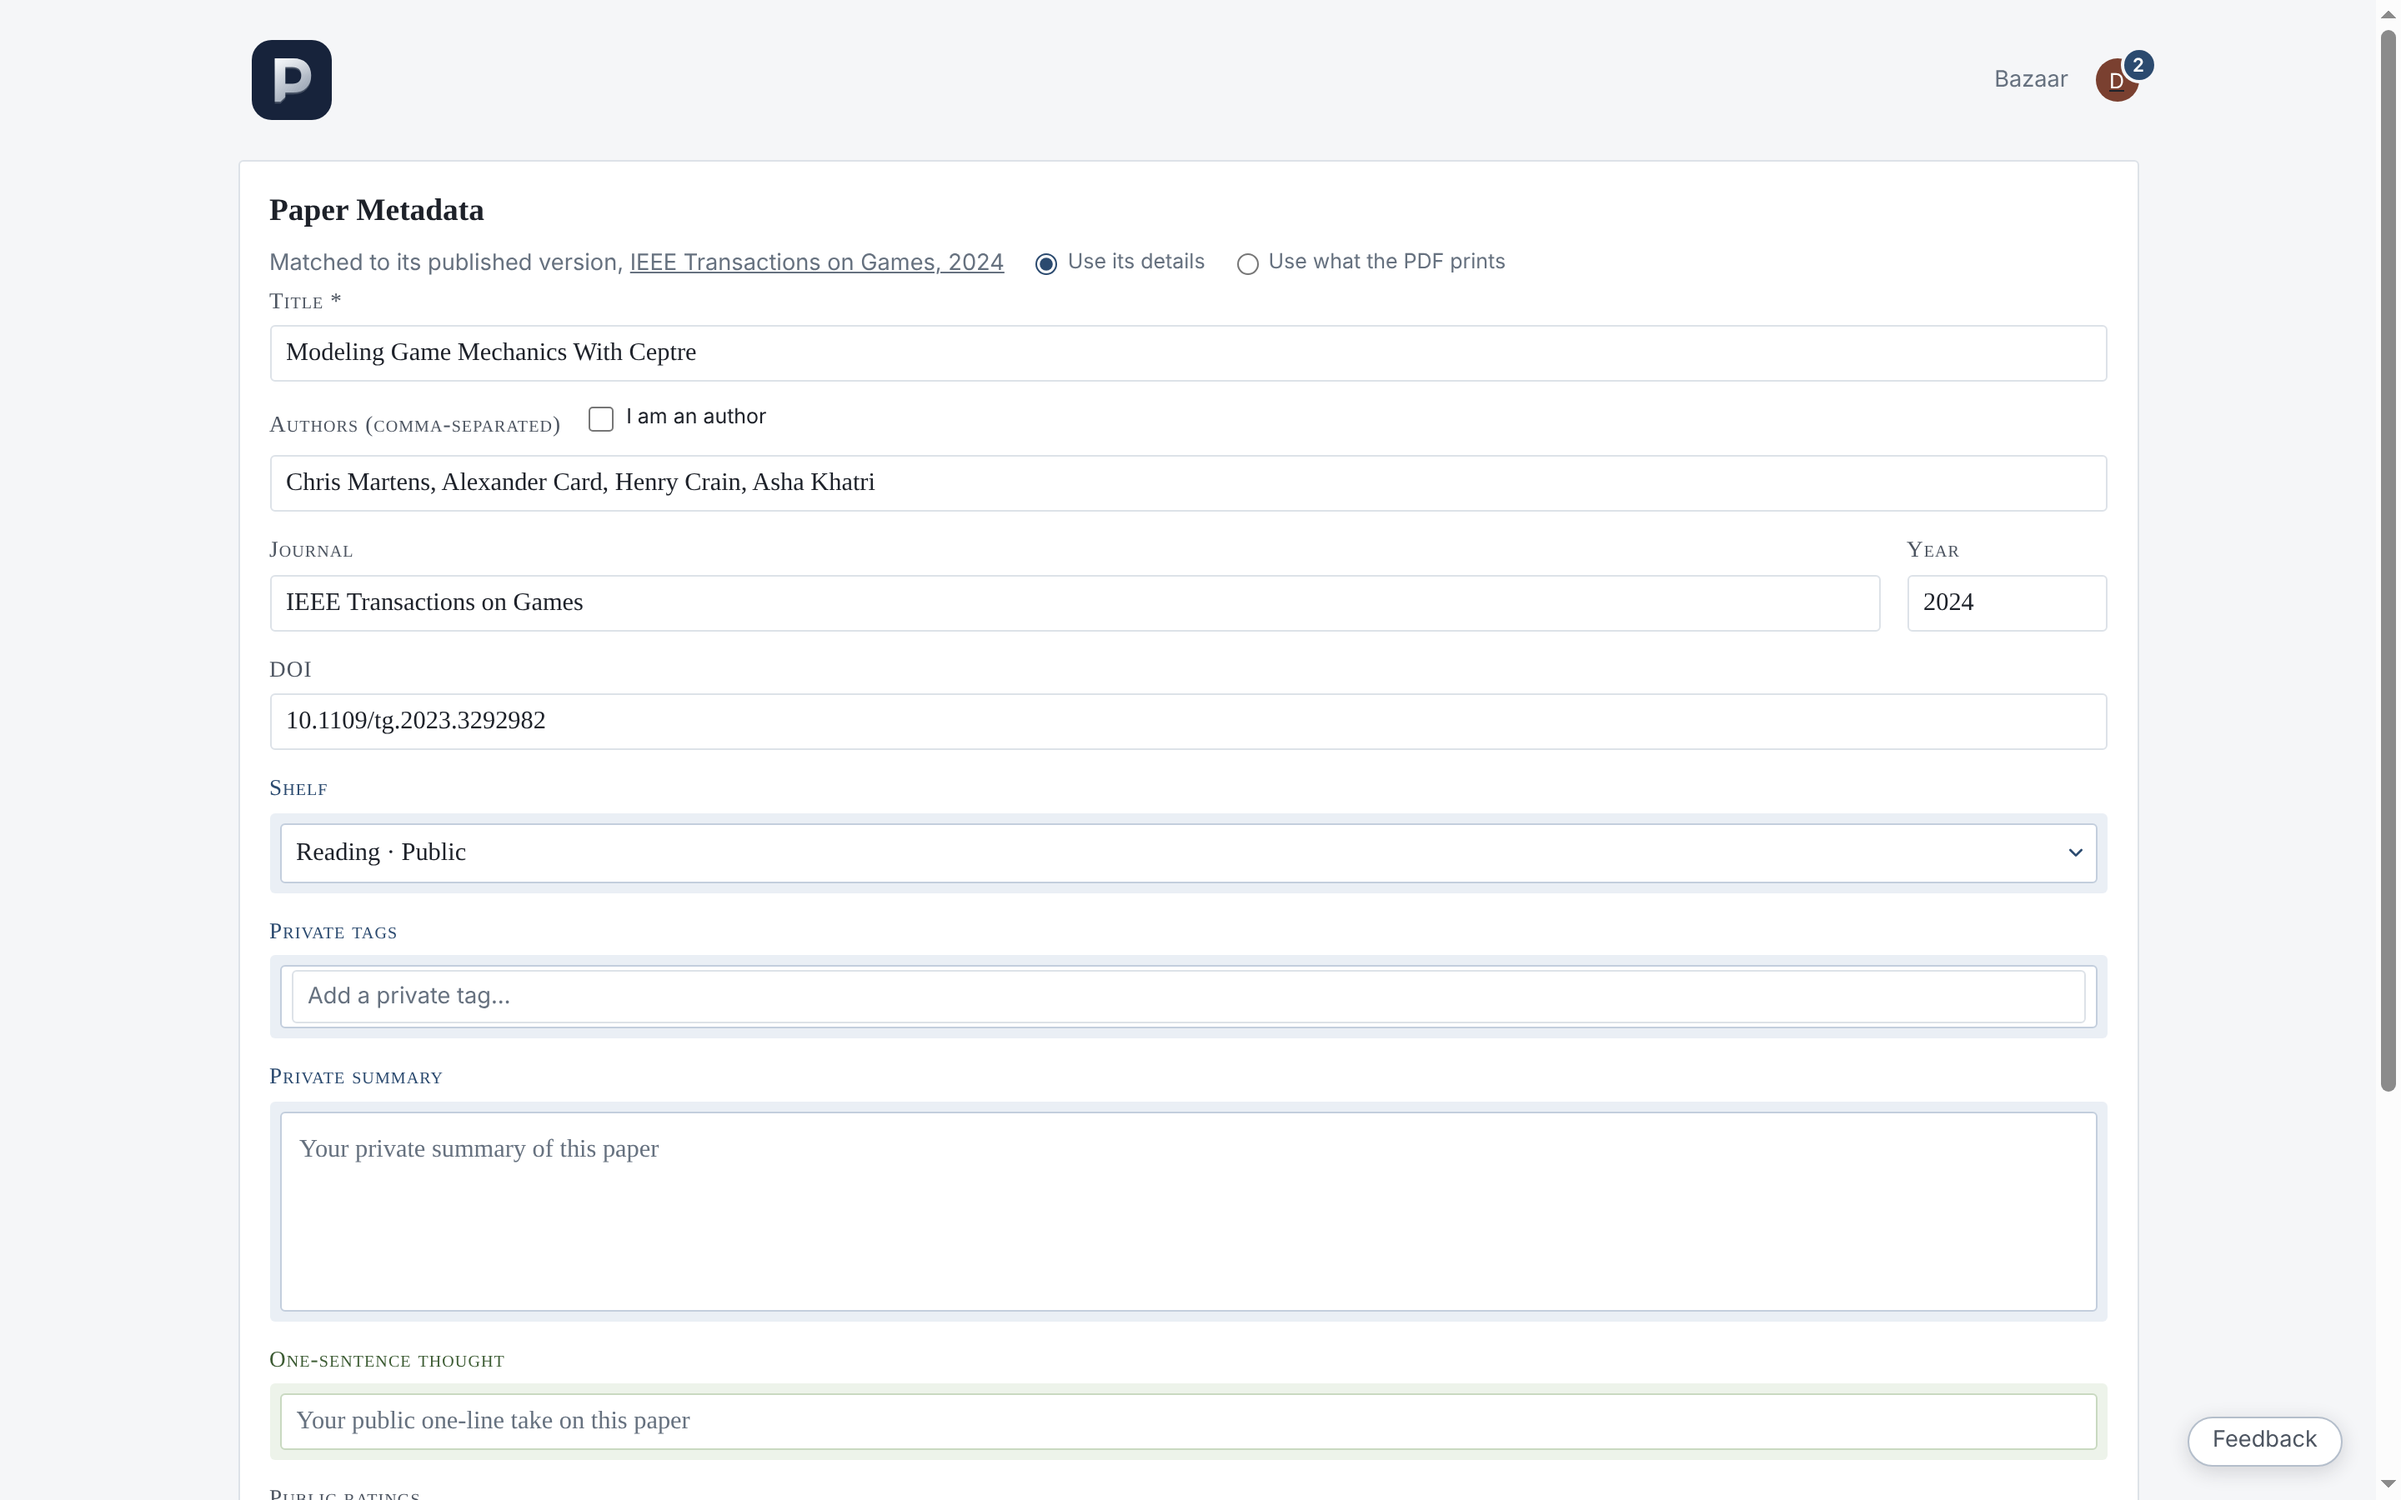
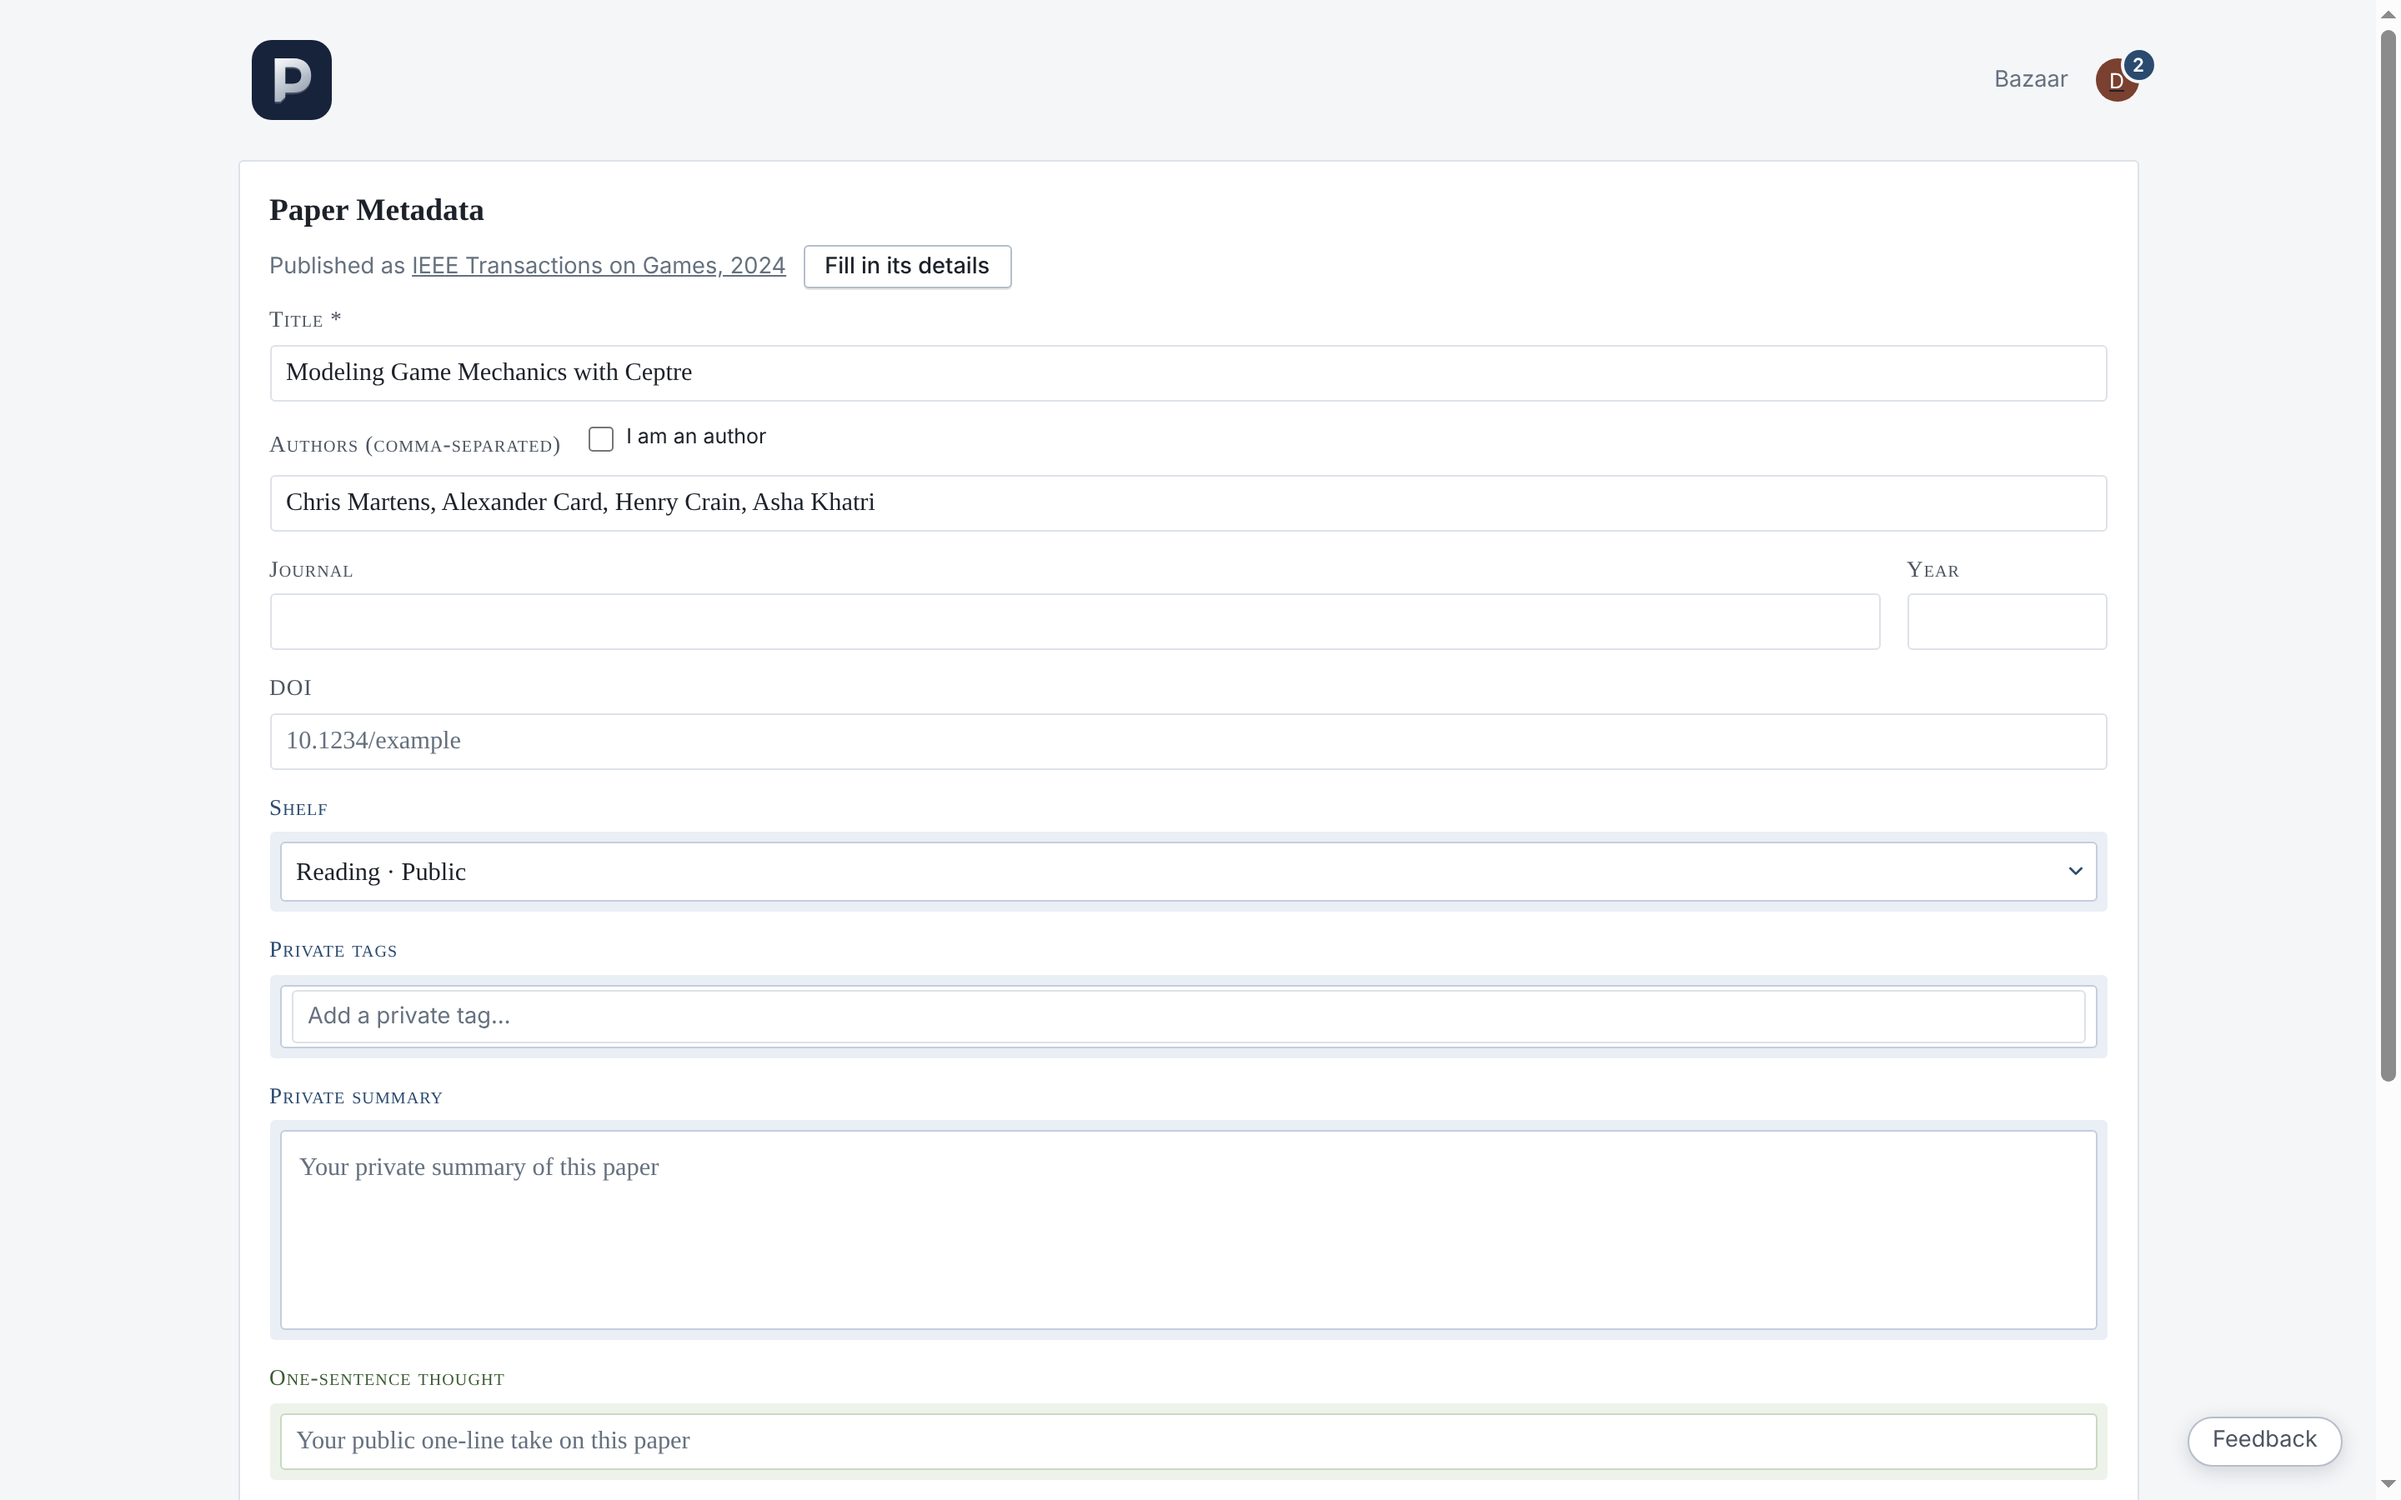
Upload form: open on what the PDF prints, with a button to fill in the published paper's details
Claude-Session: https://claude.ai/code/session_01PQZzMTf8exfQdi4pgdifC7

diff --git a/frontend/src/components/PaperUpload.jsx b/frontend/src/components/PaperUpload.jsx
@@ -44,11 +44,11 @@ export default function PaperUpload({
   // one, and whether the save takes it (the default) or keeps this PDF.
   const [known, setKnown] = useState(null);
   const [useKnown, setUseKnown] = useState(true);
-  // The reading, when it matched the PDF to its published version: the
-  // form holds the published details or, at the user's word, what the PDF
-  // prints (`as_printed`).
+  // The reading, when it matched the PDF to its published version. The
+  // form opens on what the PDF prints (`as_printed`); a button fills it
+  // with the published paper's details, and another takes them back.
   const [published, setPublished] = useState(null);
-  const [usePublished, setUsePublished] = useState(true);
+  const [usePublished, setUsePublished] = useState(false);
   const [formData, setFormData] = useState({});
   const [availableTags, setAvailableTags] = useState([]);
   const [shelves, setShelves] = useState([]);
@@ -145,7 +145,7 @@ export default function PaperUpload({
     setKnown(null);
     setUseKnown(true);
     setPublished(null);
-    setUsePublished(true);
+    setUsePublished(false);
     setIsLoading(true);
     setUploadProgress(null);
     setError(null);
@@ -194,9 +194,10 @@ export default function PaperUpload({
         return;
       }
       const settle = (read) => {
-        if (read) setFormData((current) => fillUnedited(current, editedFields.current, read));
+        const matched = publishedVersion(read) ? read : null;
+        if (read) setFormData((current) => fillUnedited(current, editedFields.current, matched ? matched.as_printed : read));
         setKnown(read?.existing?.sha256 ? read.existing : null);
-        setPublished(publishedVersion(read) ? read : null);
+        setPublished(matched);
         setReading(read ? null : 'unread');
       };
       // The indexes knew the paper while it went up: the form opens filled.
@@ -349,19 +350,16 @@ export default function PaperUpload({
           </div>
         )}
         {published && (
-          <div className="metadata-reading known-version published-version" role="status">
+          <div className="metadata-reading published-version" role="status">
             <span>
-              Matched to its published version,{' '}
+              {usePublished ? 'Filled in from the published paper,' : 'Published as'}{' '}
               <a href={publishedVersion(published).href} target="_blank" rel="noreferrer">{publishedVersion(published).where}</a>
             </span>
-            <label className="checkbox-row inline">
-              <input type="radio" name="published_version" value="published" checked={usePublished} onChange={() => choosePublished(true)} />
-              <span>Use its details</span>
-            </label>
-            <label className="checkbox-row inline">
-              <input type="radio" name="published_version" value="printed" checked={!usePublished} onChange={() => choosePublished(false)} />
-              <span>Use what the PDF prints</span>
-            </label>
+            {usePublished ? (
+              <button type="button" className="link-button" onClick={() => choosePublished(false)}>Undo</button>
+            ) : (
+              <button type="button" className="published-fill" onClick={() => choosePublished(true)}>Fill in its details</button>
+            )}
           </div>
         )}
         {error && <div className="error" role="alert">{error}</div>}

diff --git a/frontend/src/uploadReview.js b/frontend/src/uploadReview.js
@@ -44,9 +44,10 @@ export function knownVersionLine(read) {
 
 // A paper that prints no identifier of its own (an author's copy) may be
 // matched to its published version by its title and authors; the reading
-// then says what the PDF itself printed (`as_printed`), and the form
-// offers it back, the match being a judgment the user can overrule. The
-// line names where the match was published, for the user to check it:
+// then says what the PDF itself printed (`as_printed`). The form opens on
+// that, the match being a judgment, and offers the published details by a
+// button. The line names where the match was published, for the user to
+// check it:
 // `{ where, href }`, or null when the fields are the PDF's own.
 export function publishedVersion(read) {
   if (!read?.as_printed || !read.doi) return null;

diff --git a/shared/applicationStyles.js b/shared/applicationStyles.js
@@ -1002,6 +1002,11 @@ button.full-width {
 .metadata-reading.known-version { flex-wrap: wrap; }
 .metadata-reading.known-version input[type='radio'] { margin: 0; accent-color: var(--accent); }
 
+/* The published paper an author's copy was matched to, and the button
+   that fills the form with its details (or takes them back). */
+.metadata-reading.published-version { flex-wrap: wrap; gap: 6px 10px; margin-bottom: 8px; }
+.metadata-reading.published-version .published-fill { padding: 4px 12px; font-size: var(--fs-sm); }
+
 .upload-review-form .form-group {
   margin-bottom: 12px;
 }
